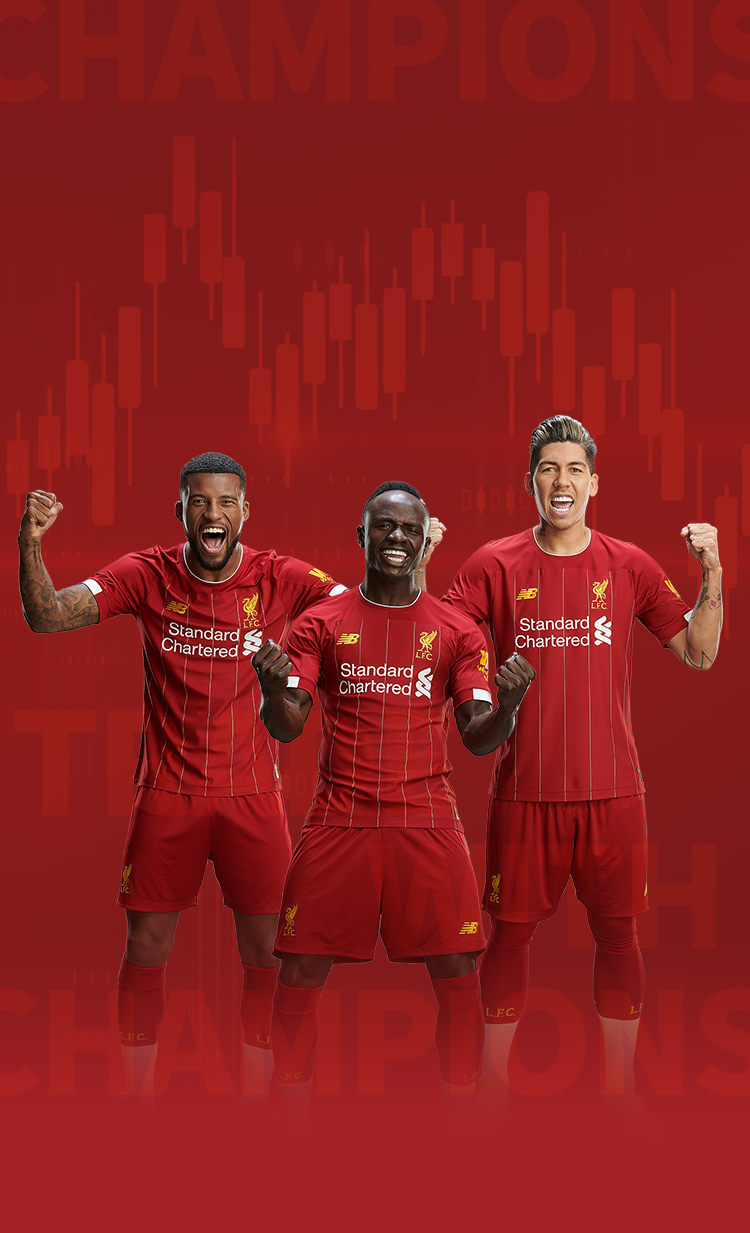
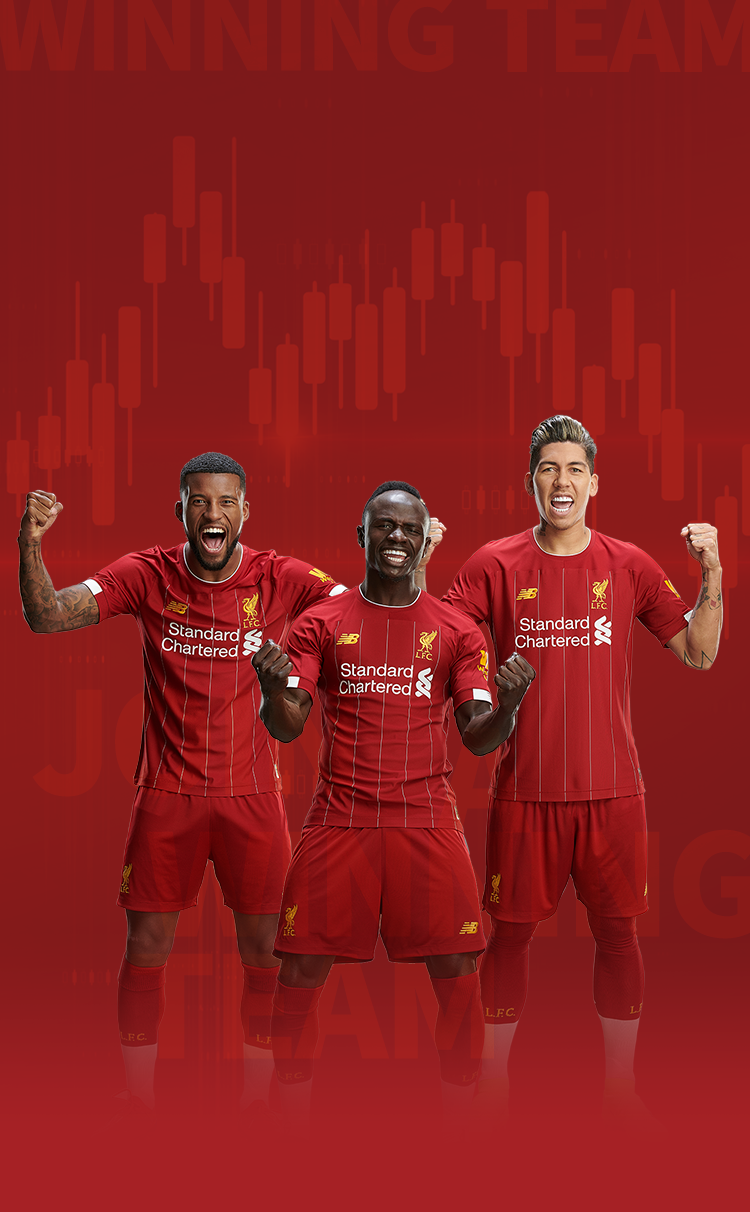
MOD: bonus

Changed region(s): [[0.0, 0.3358, 0.9813, 0.8853], [0.828, 0.7327, 0.8587, 0.7937], [0.7973, 0.8243, 0.8587, 0.8548]]

diff --git a/client/views/bd/g35/h5.html b/client/views/bd/g35/h5.html
@@ -44,7 +44,7 @@
       <div class="m_global_t35__focus-bg"><img src="/white_label/bd/g35/h5-focus.png" alt=""></div>
       <div class="m_global_t35__focus-content">
         <h2><img src="/white_label/bd/g35/logo.png" alt=""></h2>
-        <h3>Trade with Champions</h3>
+        <h3>Join a Winning Team</h3>
         <p>Teamwork is the key to successful partnership, now we invite you to join the best team in the world.</p>
       </div>
       <div class="m_global_t35__focus-btn" id="goToRegister">
@@ -79,15 +79,13 @@
           <input type="password" class="form-control" name="confirmPassword" id="confirmPassword"
             placeholder="<%= lang.text('thirdH5.confirmPassword')%>">
         </div>
-        <div class="form-control-wrapper select-wrapper">
-          <img id="select" class="select-box" src="/white_label/bd/g35/select.png" alt="">
-          <img id="selected" class="select-box active" src="/white_label/bd/g35/selected.png" alt="">
+        <div class="m_global_t35__btn_wrapper">
+          <button id="submit_form" class="m_global_t35__btn" href="">SUBMIT</button>
+        </div>
+        <div class="select-wrapper">
           <span>
             I consent to the collection, storage and processing of my personal data by TigerWit in accordance with its Privacy Policy.
           </span>
-        </div>
-        <div class="m_global_t35__btn_wrapper">
-          <button id="submit_form" class="m_global_t35__btn" href="">SUBMIT</button>
         </div>
       </div>
     </div>
@@ -132,7 +130,7 @@
     </div>
     <div class="m_global_t35__payment_wrapper">
       <h3>Payment methids include</h3>
-      <ul class="m_global_t35__payment display-flex payment1">
+      <ul class="m_global_t35__payment display-flex">
         <li>
           <p><img src="/white_label/bd/g35/payment-1.png" alt=""></p>
           <p>Bank Transfer</p>
@@ -141,12 +139,12 @@
           <p><img src="/white_label/bd/g35/payment-2.png" alt=""></p>
           <p>Mastercard</p>
         </li>
-      </ul>
-      <ul class="m_global_t35__payment display-flex payment2">
         <li>
           <p><img src="/white_label/bd/g35/payment-3.png" alt=""></p>
           <p>Visa</p>
         </li>
+      </ul>
+      <ul class="m_global_t35__payment display-flex">
         <li>
           <p><img src="/white_label/bd/g35/payment-4.png" alt=""></p>
           <p>Epoch</p>
@@ -154,6 +152,10 @@
         <li>
           <p><img src="/white_label/bd/g35/payment-5.png" alt=""></p>
           <p>Paypal</p>
+        </li>
+        <li>
+          <p><img src="/white_label/bd/g35/payment-6.png" alt=""></p>
+          <p>Noire</p>
         </li>
       </ul>
       <p class="tips">To be locallised according to each territories payments</p>

diff --git a/client/views/bd/g35/web.html b/client/views/bd/g35/web.html
@@ -22,7 +22,7 @@
           <div class="global_t35__focus-content">
             <h2><img src="/white_label/bd/g35/logo.png" alt=""></h2>
             <div class="main_info">
-              <h3>Trade with Champions</h3>
+              <h3>Join a Winning Team</h3>
               <img src="/white_label/bd/g35/web-line.png" alt="">
               <p>Teamwork is the key to successful partnership, now we invite you to join the best team in the world.</p>
             </div>
@@ -56,15 +56,13 @@
                 <input type="password" class="form-control" name="confirmPassword" id="confirmPassword"
                   placeholder="<%= lang.text('thirdH5.confirmPassword')%>">
               </div>
-              <div class="form-control-wrapper select-wrapper">
-                <img id="select" class="select-box" src="/white_label/bd/g35/select.png" alt="">
-                <img id="selected" class="select-box active" src="/white_label/bd/g35/selected.png" alt="">
+              <div class="global_t35__btn_wrapper">
+                <button id="submit_form" class="global_t35__btn">SUBMIT</button>
+              </div>
+              <div class="select-wrapper">
                 <span>
                   I consent to the collection, storage and processing of my personal data by TigerWit in accordance with its Privacy Policy.
                 </span>
-              </div>
-              <div class="global_t35__btn_wrapper">
-                <button id="submit_form" class="global_t35__btn">SUBMIT</button>
               </div>
             </div>
           </div>
@@ -133,6 +131,10 @@
             <li>
               <p><img src="/white_label/bd/g35/payment-5.png" alt=""></p>
               <p>Paypal</p>
+            </li>
+            <li>
+              <p><img src="/white_label/bd/g35/payment-6.png" alt=""></p>
+              <p>Noire</p>
             </li>
           </ul>
           <p class="tips">To be locallised according to each territories payments</p>

diff --git a/client/styles/bd/g35/web.scss b/client/styles/bd/g35/web.scss
@@ -118,18 +118,10 @@
       }
     }
     .select-wrapper {
-      .select-box {
-        width: 16px;
-        vertical-align: middle;
-        display: none;
-        cursor: pointer;
-        &.active {
-          display: inline-block;
-        }
-      }
+      margin-top: 15px;
       span {
+        font-size: 12px;
         color: #fff;
-        padding-left: 2px;
         line-height: 16px;
       }
     }
@@ -155,11 +147,6 @@
     background: -o-linear-gradient(left, #fbd427, #e4c548); /* Opera 11.1 - 12.0 */
     background: -moz-linear-gradient(left, #fbd427, #e4c548); /* Firefox 3.6 - 15 */
     background: linear-gradient(left, #fbd427, #e4c548); /* 标准的语法 */
-
-    &.gray {
-      opacity: .6;
-      cursor: not-allowed;
-    }
   }
   @include e(content_wrapper) {
     margin-bottom: 120px !important;
@@ -204,9 +191,9 @@
   }
   @include e(payment) {
     li {
-      width: 20%;
+      width: 16.66%;
       text-align: center;
-      padding: 0 35px;
+      padding: 0 30px;
       img {
         height: 60px;
       }

diff --git a/client/styles/bd/g35/h5.scss b/client/styles/bd/g35/h5.scss
@@ -105,26 +105,14 @@
       }
     }
     .select-wrapper {
-      .select-box {
-        width: px2rem(32);
-        vertical-align: middle;
-        display: none;
-        &.active {
-          display: inline-block;
-        }
-      }
       span {
         color: #fff;
-        font-size: px2rem(28);
-        line-height: px2rem(32);
+        font-size: px2rem(24);
+        line-height: px2rem(30);
       }
     }
     .m_global_t35__btn {
       border-radius: 1000px;
-
-      &.gray {
-        opacity: .6;
-      }
     }
   }
   @include e(content_wrapper) {
@@ -177,20 +165,9 @@
     li {
       font-size: px2rem(24);
       text-align: center;
+      width: 33.33%;
       img {
         height: px2rem(60);
-      }
-    }
-    &.payment1 {
-      margin-left: 16%;
-      margin-right: 16%;
-      li {
-        width: 50%;
-      }
-    }
-    &.payment2 {
-      li {
-        width: 33.33%;
       }
     }
   }

diff --git a/client/scripts/bd/common/register_global.js b/client/scripts/bd/common/register_global.js
@@ -108,22 +108,7 @@ $(document).ready(function () {
   $("#country").on('change', function (e) {
     $(this).css('color', '#333');
   });
-  //同意协议
-  var isAgree = true;
-  $(".select-box").on('click', function () {
-    if (isAgree) {
-      $("#select").addClass('active');
-      $("#selected").removeClass('active');
-      $("#submit_form").addClass('gray');
-    } else {
-      $("#selected").addClass('active');
-      $("#select").removeClass('active');
-      $("#submit_form").removeClass('gray');
-    }
-    isAgree = !isAgree;
-  })
   function toRegister(is_agree) {
-    if (!isAgree) return;
     if (!$("#country").val()) {
       openLayer(lang.text('registerJs.selectCountry'));
       return;

diff --git a/client/scripts/common/lang_data.service.js b/client/scripts/common/lang_data.service.js
@@ -7637,7 +7637,7 @@
                     },
                     "bankCard": {
                         "zh": "银行卡",
-                        "en": "Bank Card",
+                        "en": "Card",
                         "vi": "Thẻ ngân hàng",
                         "zh-Hant": "銀行卡",
                         "id": "Rekening bank",
